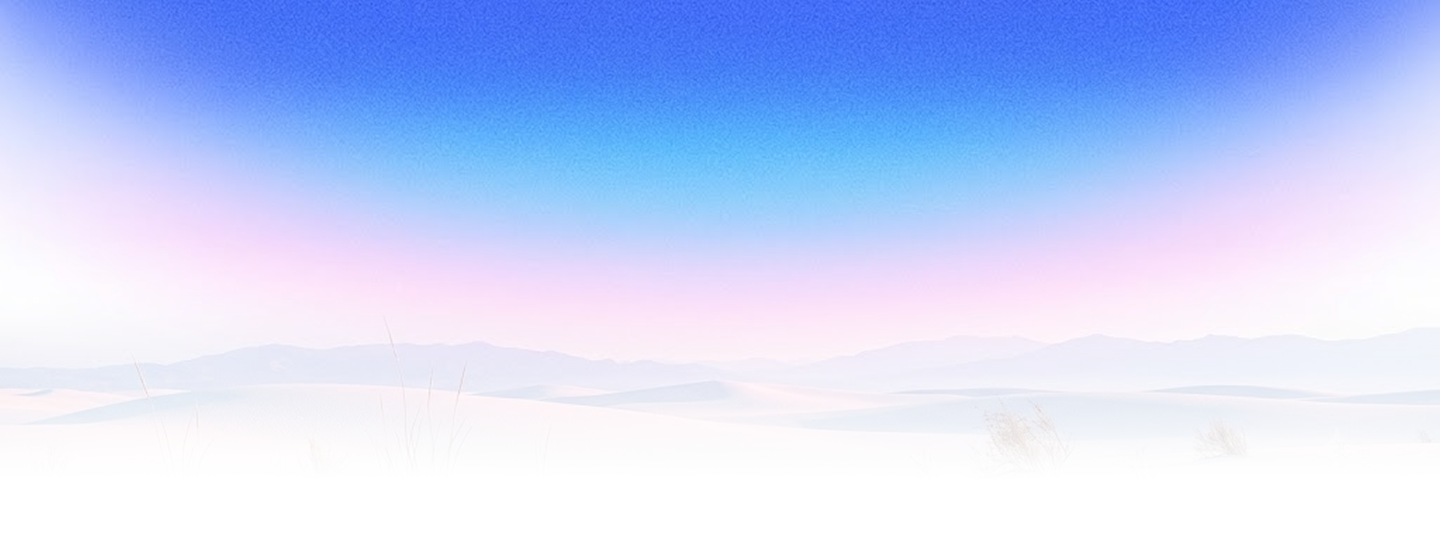
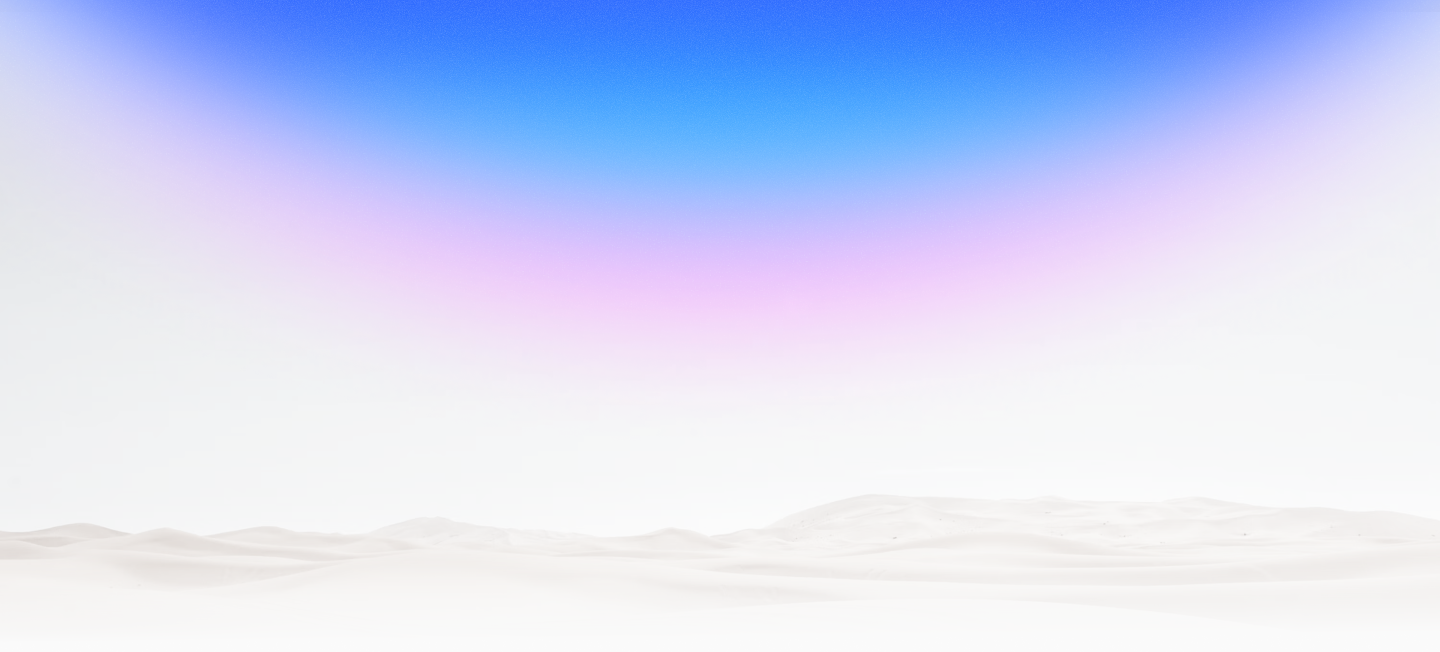
Hide the landscape shade during analysis and tighten the landing box.
Keep the shade positioned on the first screen, then drop it after Done so the framed image sits on a clean canvas.

Changed region(s): [[0.0, 0.0, 1.0, 0.4919], [0.0, 0.7993, 0.25, 0.8915], [0.5, 0.8608, 0.5312, 0.8915]]

diff --git a/src/stages/InspirationInput/InspirationInput.tsx b/src/stages/InspirationInput/InspirationInput.tsx
@@ -41,9 +41,10 @@ const SHOW_DITHER = false;
 
 type Props = {
   onContinue: (imageSrc: string, context: string) => void;
+  onReadingChange?: (reading: boolean) => void;
 };
 
-export default function InspirationInput({ onContinue }: Props) {
+export default function InspirationInput({ onContinue, onReadingChange }: Props) {
   const fileRef = useRef<HTMLInputElement>(null);
   const [imageSrc, setImageSrc] = useState<string | null>(null);
   const [context, setContext] = useState(DEMO_CONTEXT);
@@ -52,6 +53,10 @@ export default function InspirationInput({ onContinue }: Props) {
   const [reading, setReading] = useState(false);
   const [beat, setBeat] = useState(0);
   const continued = useRef(false);
+
+  useEffect(() => {
+    onReadingChange?.(reading);
+  }, [reading, onReadingChange]);
 
   function useFile(file: File) {
     setImageSrc(URL.createObjectURL(file));
@@ -225,6 +230,7 @@ export default function InspirationInput({ onContinue }: Props) {
                   <Plus size={18} />
                 </button>
               </div>
+              <div className="inspiration__remember-wrap">
               <h2 className="inspiration__remember">Anything else you remember?</h2>
               <div className="inspiration__composer">
                 <textarea
@@ -240,6 +246,7 @@ export default function InspirationInput({ onContinue }: Props) {
                 >
                   <Mic size={16} />
                 </button>
+              </div>
               </div>
               <button type="button" className="inspiration__done" onClick={submit}>
                 Done

diff --git a/src/App.tsx b/src/App.tsx
@@ -10,11 +10,16 @@ import './AppShell.css';
 export default function App() {
   const [stage, setStage] = useState<JourneyStage>('inspiration');
   const [imageSrc, setImageSrc] = useState(DEMO_INSPIRATION);
+  const [hideShade, setHideShade] = useState(false);
 
   return (
     <LayoutGroup>
     <div className="app-shell">
-      <img className="app-shell__shade" src={pageShade} alt="" />
+      <img
+        className={`app-shell__shade${hideShade ? ' is-hidden' : ''}`}
+        src={pageShade}
+        alt=""
+      />
       <AnimatePresence mode="wait">
         {stage === 'inspiration' ? (
           <motion.div
@@ -25,8 +30,10 @@ export default function App() {
             transition={{ duration: 0.28 }}
           >
             <InspirationInput
+              onReadingChange={setHideShade}
               onContinue={(src) => {
                 setImageSrc(src);
+                setHideShade(false);
                 setStage('sculpt');
               }}
             />

diff --git a/src/stages/InspirationInput/InspirationInput.css b/src/stages/InspirationInput/InspirationInput.css
@@ -42,7 +42,7 @@
 
 .inspiration__orb-dock--corner {
   position: absolute;
-  top: 5rem;
+  top: 3rem;
   left: calc(40% - min(12rem, 36vw));
   z-index: 4;
   justify-content: flex-start;
@@ -315,7 +315,7 @@
   padding: var(--space-stack-lg);
   box-shadow: var(--shadow-elevated);
   display: grid;
-  gap: var(--space-stack-md);
+  gap: var(--space-stack-lg);
 }
 
 .inspiration__close {
@@ -346,7 +346,7 @@
 .inspiration__thumb-frame {
   width: 100%;
   height: 100%;
-  border-radius: var(--radius-control);
+  border-radius: var(--radius-card);
   overflow: hidden;
 }
 
@@ -376,7 +376,7 @@
   width: var(--size-thumb);
   height: var(--size-thumb);
   border: 1px dashed var(--color-border-default);
-  border-radius: var(--radius-control);
+  border-radius: var(--radius-card);
   background: transparent;
   color: var(--color-text-muted);
   display: grid;

diff --git a/src/styles/tokens/primitives.css b/src/styles/tokens/primitives.css
@@ -52,7 +52,7 @@
   --primitive-size-photo: 22rem;
   --primitive-size-drop: 10rem;
   --primitive-size-composer: 6.5rem;
-  --primitive-size-landing: 42rem;
+  --primitive-size-landing: 34rem;
 
   --primitive-radius-sm: 0.25rem;
   --primitive-radius-md: 0.5rem;

diff --git a/src/AppShell.css b/src/AppShell.css
@@ -15,6 +15,10 @@
   z-index: 0;
 }
 
+.app-shell__shade.is-hidden {
+  opacity: 0;
+}
+
 .app-shell > :not(.app-shell__shade) {
   position: relative;
   z-index: 1;
